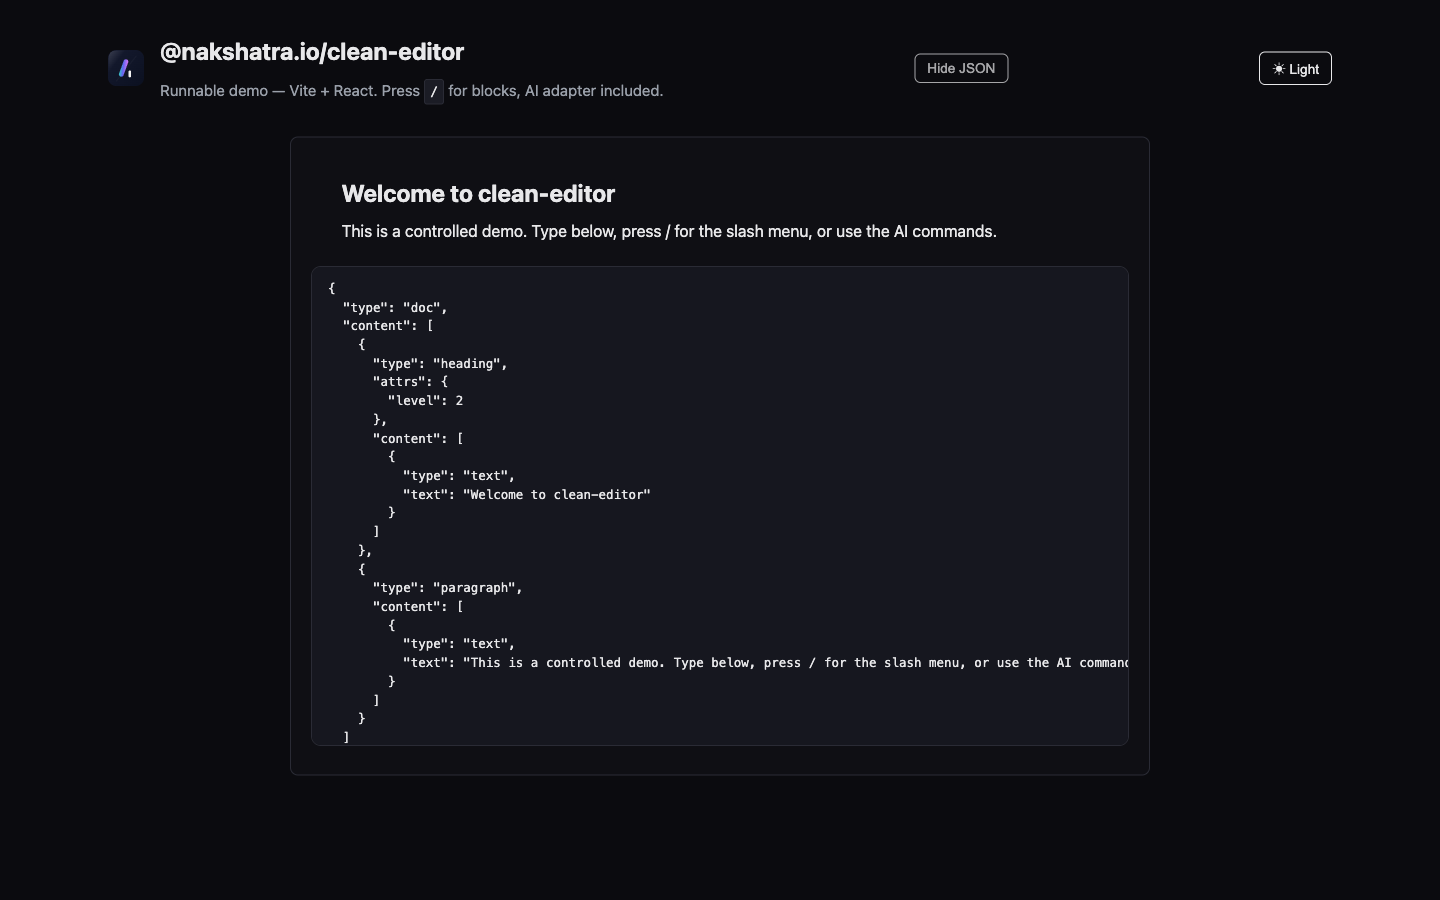
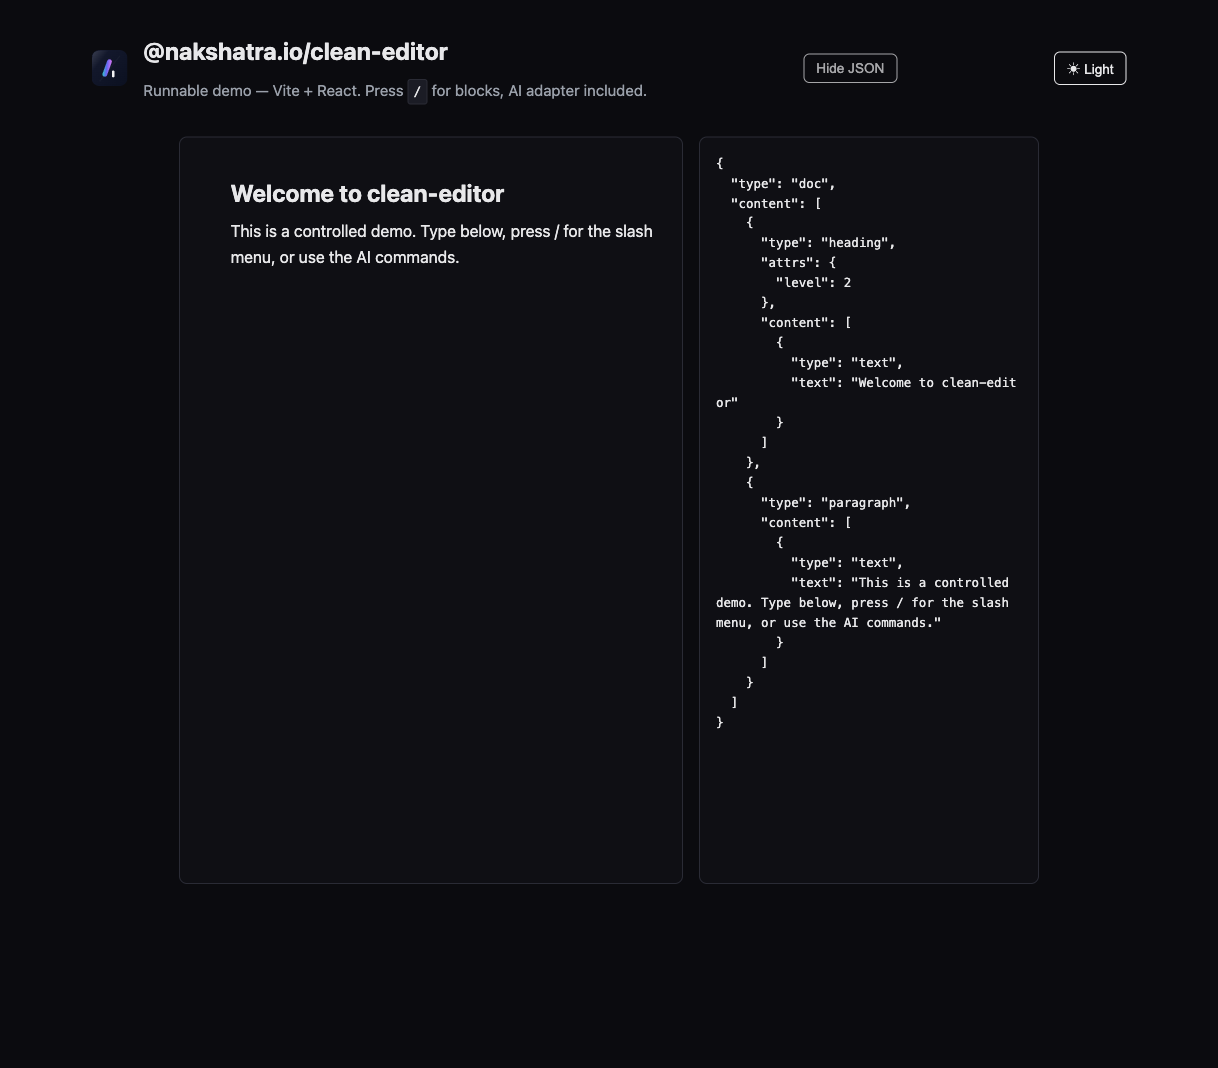
fix(demo): define __PKG_VERSION__ for the source-aliased demo; refresh split-view screenshots
The demo imports the library source, which references the build-time
__PKG_VERSION__ define — so the demo's own vite config must define it too
(else the demo crashes with __PKG_VERSION__ undefined). Refresh the README
screenshots to the new split view (clean editor + separate JSON panel).

diff --git a/demo/vite.config.ts b/demo/vite.config.ts
@@ -1,6 +1,10 @@
 import { defineConfig } from "vite";
 import react from "@vitejs/plugin-react";
 import { resolve } from "path";
+// The demo imports the library SOURCE (alias below), which references the
+// build-time `__PKG_VERSION__` define. Consumers get it from the built dist,
+// but the source-aliased demo must define it here too (root package.json).
+import libPkg from "../package.json";
 
 // GitHub Pages' configure-pages outputs base_path WITHOUT a trailing slash
 // (e.g. "/clean-editor"). Vite's `import.meta.env.BASE_URL` is used as a raw
@@ -24,5 +28,6 @@ export default defineConfig({
     ],
     dedupe: ["react", "react-dom", "@tiptap/core", "@tiptap/pm", "@tiptap/react"],
   },
+  define: { __PKG_VERSION__: JSON.stringify(libPkg.version) },
   base,
 });